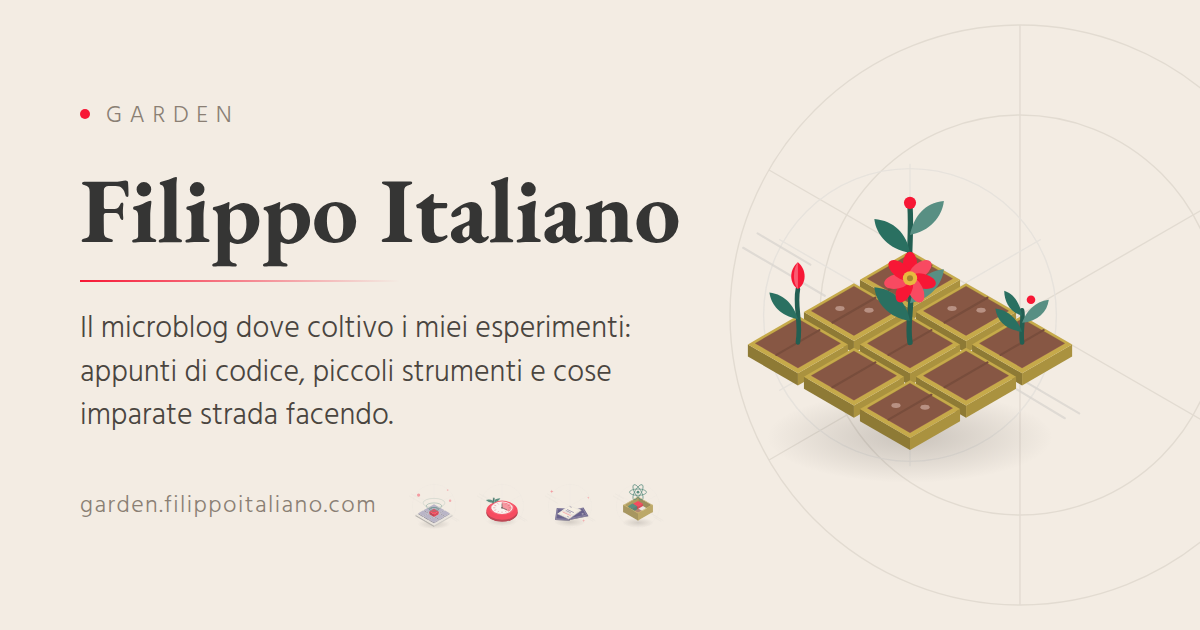
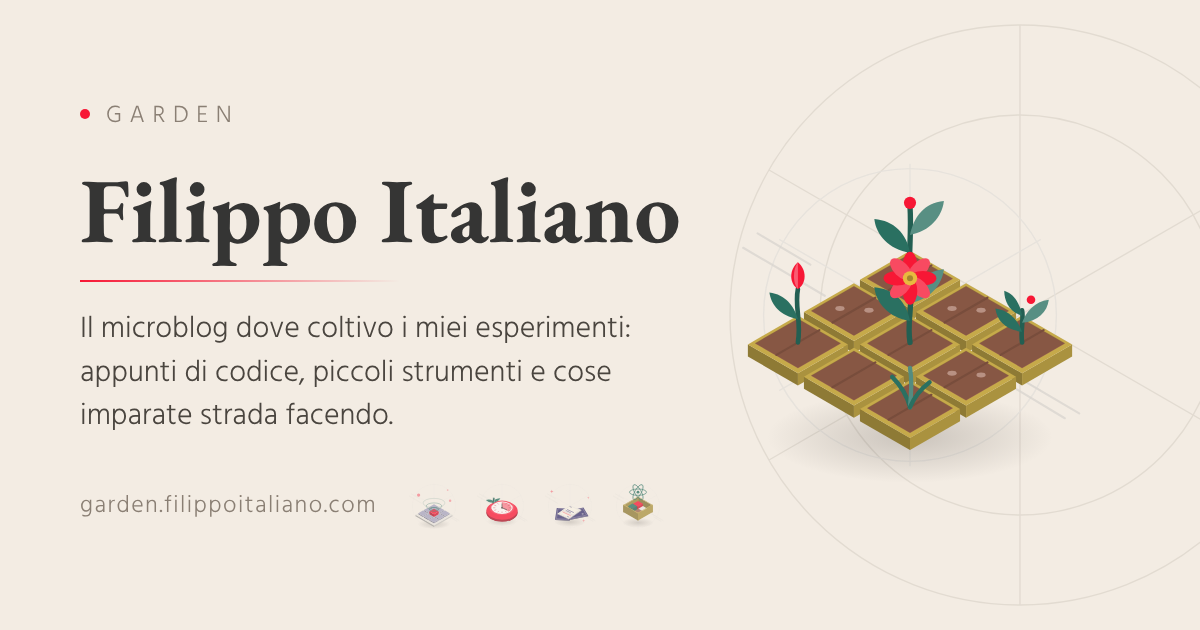
Plant the article on Soffritto, and its pan in the projects bar
Soffritto goes first in the articles bar, pointing at the releases of its
repo, drawn in the generator as a pan on the burner with the environments
diced into it. The article goes on top of the home page; the garden
regenerated with it — five plants in nine tiles — and the og image too.

Claude-Session: https://claude.ai/code/session_013MpFLw83P2DMiL5YF3JBPt

diff --git a/client/components/ArticlesBar.js b/client/components/ArticlesBar.js
@@ -1,5 +1,11 @@
 const ARTICLES_BAR_ARTIFACTS = [
   {
+    name: 'soffritto',
+    src: '/client/artifacts/soffritto.svg',
+    href: 'https://github.com/filippoitaliano/Soffritto/releases',
+    alt: 'an isometric pan on a lit burner, with diced cubes sizzling in it',
+  },
+  {
     name: 'blindtales-app',
     src: '/client/artifacts/blindtales-app.svg',
     href: 'https://blindtales.app/',

diff --git a/client/version.js b/client/version.js
@@ -3,4 +3,4 @@
 // goes forward — it started at 91, the commits on master the day the footer
 // was planted, and it never resets. Bump it by hand on every change — see the
 // rule in CLAUDE.md.
-const SITE_VERSION = '2026.11.93';
+const SITE_VERSION = '2026.11.94';

diff --git a/tools/generate-artifacts.py b/tools/generate-artifacts.py
@@ -250,6 +250,59 @@ def atmosfere():
 
 
 # --------------------------------------------------------------------------
+# soffritto: a desktop app that keeps several copies of the same project on
+# the go at once — a pan on the burner, with the environments diced into it
+# like onion, carrot and celery, all sizzling together.
+# --------------------------------------------------------------------------
+def soffritto():
+    ink, flame, steam = "#3a3532", "#f71735", "#c6aa4a"
+    onion, carrot, celery = "#f3ece3", "#e8833a", "#4f9a7f"
+    oy = 102.0
+    out = [ground_shadow(87.5, 124, 48, 15)]
+    out.append("  <g>")
+    # the burner: an iron grate, with the flame licking out from under the pan
+    out.append("    " + box(-30, -30, 0, 60, 60, 3, shade(ink, 1.35), oy=oy))
+    out.append("  </g>")
+    # the pan, seen from above at the isometric angle: rim, wall, oil
+    cx, cy = iso(0, 0, 9, oy=oy)
+    rx, ry = 38, 22
+    # the handle, sticking out towards the back right, under the rim
+    hx, hy = iso(0, -66, 16, oy=oy)
+    out.append(f'  <path d="M{cx + 26:.2f} {cy - 18:.2f} L{hx:.2f} {hy:.2f}" fill="none" '
+               f'stroke="{shade(ink, 0.8)}" stroke-width="7" stroke-linecap="round"/>')
+    out.append(f'  <path d="M{cx + 26:.2f} {cy - 19:.2f} L{hx:.2f} {hy - 1:.2f}" fill="none" '
+               f'stroke="{shade(ink, 1.5)}" stroke-width="2" stroke-linecap="round" opacity="0.6"/>')
+    out.append(f"""  <g>
+    <path d="M{cx - rx:.2f} {cy:.2f} A{rx} {ry} 0 0 0 {cx + rx:.2f} {cy:.2f} L{cx + rx:.2f} {cy - 8:.2f} A{rx} {ry} 0 0 1 {cx - rx:.2f} {cy - 8:.2f} z" fill="{shade(ink, 0.82)}"/>
+    <ellipse cx="{cx:.2f}" cy="{cy - 8:.2f}" rx="{rx}" ry="{ry}" fill="{shade(ink, 1.25)}"/>
+    <ellipse cx="{cx:.2f}" cy="{cy - 7:.2f}" rx="{rx - 4}" ry="{ry - 2.6:.2f}" fill="{ink}"/>
+    <ellipse cx="{cx:.2f}" cy="{cy - 6.5:.2f}" rx="{rx - 9}" ry="{ry - 5.5:.2f}" fill="{steam}" opacity="0.28"/>
+  </g>""")
+    # the flame, licking up round the front of the pan from the burner below
+    for a in (-150, -120, -90, -60, -30):
+        t = math.radians(a)
+        fx, fy = cx + math.cos(t) * (rx + 3), cy - math.sin(t) * (ry + 3) + 2
+        out.append(f'  <path transform="translate({fx:.2f} {fy:.2f})" '
+                   f'd="M0 0 C-4 -2 -3 -7 0 -11 C3 -7 4 -2 0 0 z" fill="{flame}" opacity="0.9"/>')
+    # the environments, diced: one cube each, all in the same pan
+    out.append("  <g>")
+    dice = ((-14, -6, celery), (2, -16, carrot), (8, 4, onion),
+            (-6, 8, carrot), (-20, 10, onion), (14, -6, celery))
+    # back to front, so the nearer cubes sit on top of the farther ones
+    for x, y, color in sorted(dice, key=lambda d: d[0] + d[1]):
+        out.append("    " + box(x, y, 10, 7, 7, 7, color, oy=oy))
+    out.append("  </g>")
+    # and the sizzle: a few curls of steam going up
+    for sx, sy, h, o in ((72, 52, 16, 0.75), (90, 44, 20, 0.6), (106, 54, 14, 0.5)):
+        out.append(f'  <path d="M{sx} {sy} c-5 -4 5 -{h * 0.4:.1f} 0 -{h * 0.6:.1f} '
+                   f'c-5 -4 5 -{h * 0.2:.1f} 0 -{h * 0.4:.1f}" fill="none" stroke="{steam}" '
+                   f'stroke-width="2" stroke-linecap="round" opacity="{o}"/>')
+    for nx, ny, r, o in ((40, 40, 3.2, 0.5), (138, 74, 2.6, 0.45), (128, 34, 2.0, 0.35)):
+        out.append(f'  <circle cx="{nx}" cy="{ny}" r="{r}" fill="{flame}" opacity="{o}"/>')
+    return wrap("soffritto", "\n".join(out))
+
+
+# --------------------------------------------------------------------------
 # blindtales-app: an exquisite-corpse card game — a fan of face-down cards
 # with the one card you are given, face up, on top of the pile.
 # --------------------------------------------------------------------------
@@ -679,6 +732,7 @@ if __name__ == "__main__":
     growth = read_growth(os.path.dirname(os.path.dirname(os.path.abspath(__file__))))
     # Paths are relative to the client dir: `python3 tools/generate-artifacts.py client`.
     targets = {
+        "artifacts/soffritto.svg": soffritto(),
         "artifacts/blindtales-app.svg": blindtales_app(),
         "artifacts/tomato-timer.svg": tomato_timer(),
         "artifacts/react-webpack-seed.svg": react_webpack_seed(),
